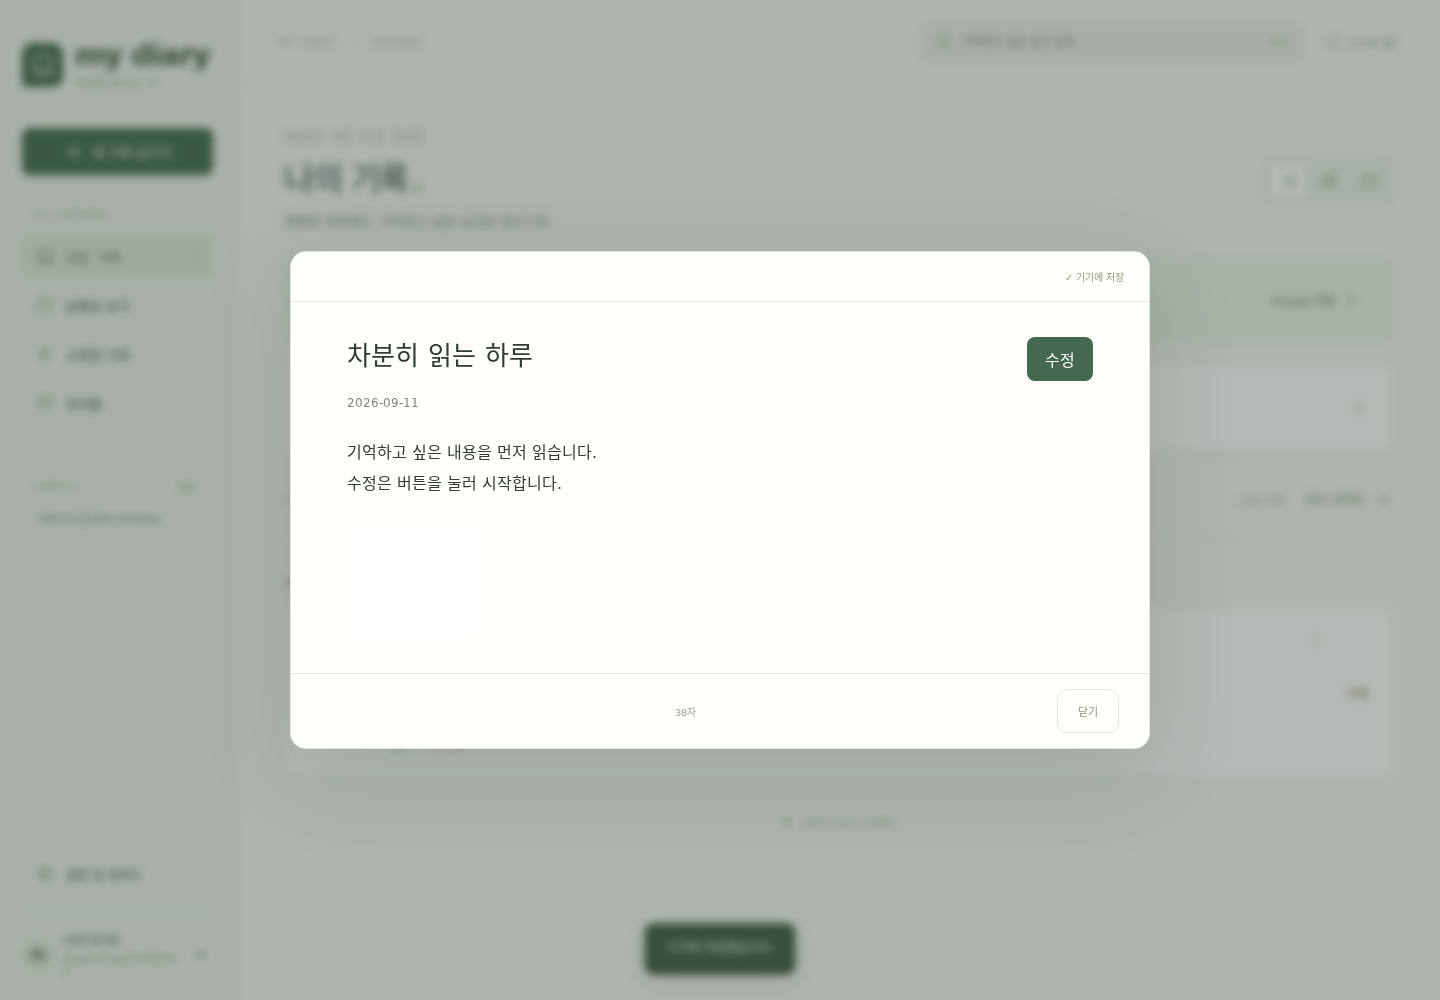
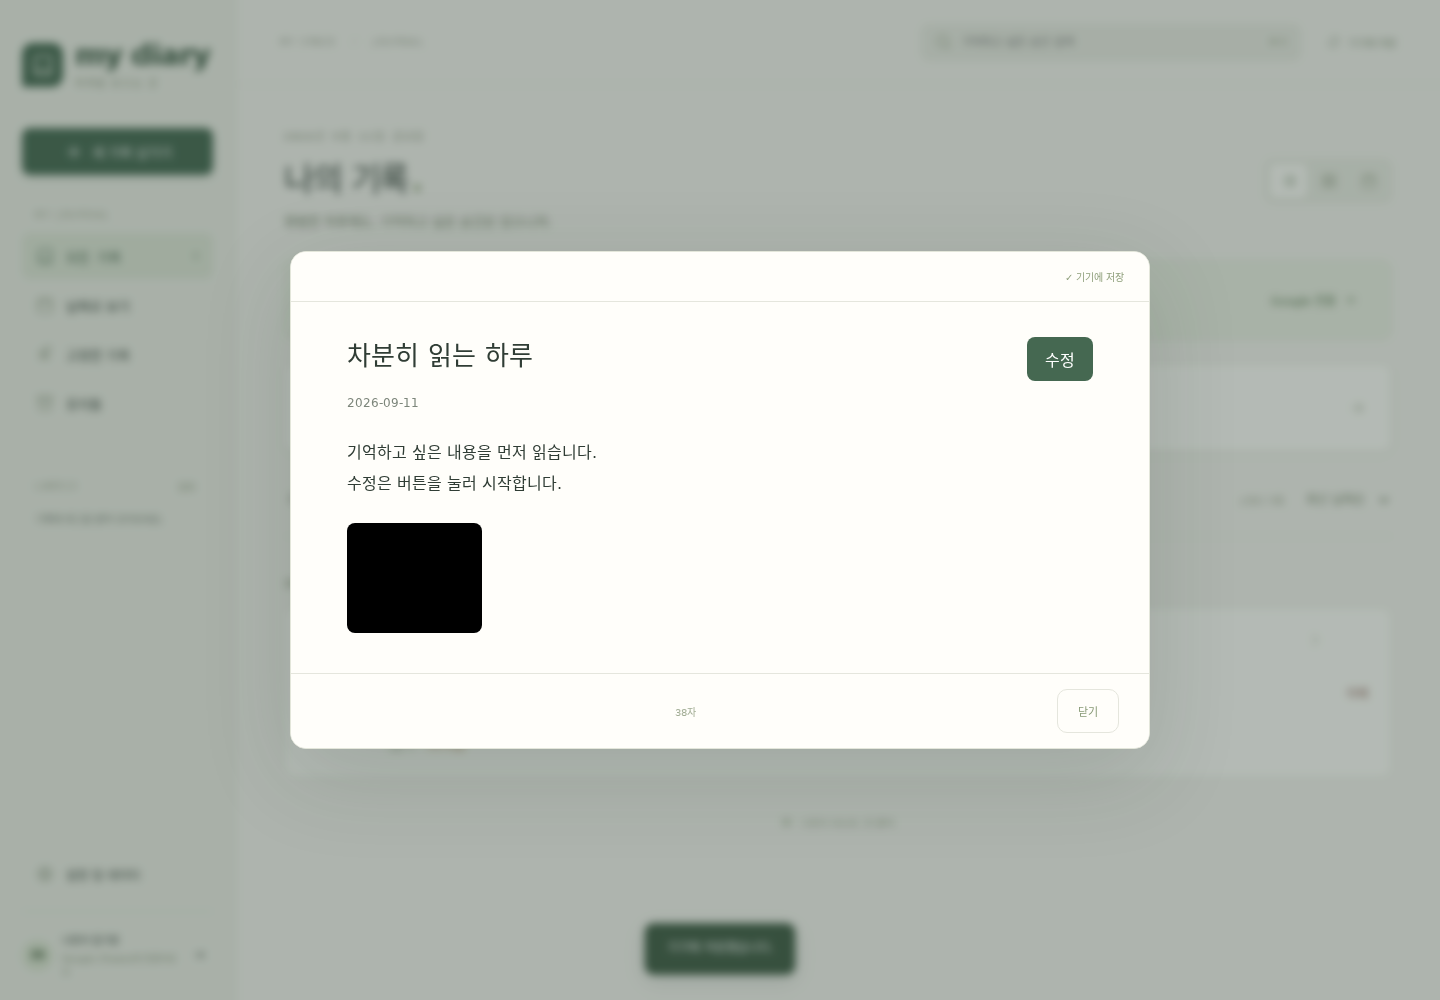
Use a valid photo fixture for reading mode tests

Changed region(s): [[0.2188, 0.496, 0.3438, 0.651]]

diff --git a/tests/browser/journal.spec.js b/tests/browser/journal.spec.js
@@ -238,13 +238,18 @@ test('existing diaries open for reading with an accessible edit action and no at
   await page
     .locator('#entry-body')
     .fill('기억하고 싶은 내용을 먼저 읽습니다.\n수정은 버튼을 눌러 시작합니다.');
+  const bytes = await page.evaluate(async () => {
+    const canvas = document.createElement('canvas');
+    canvas.width = 320;
+    canvas.height = 180;
+    canvas.getContext('2d').fillRect(0, 0, 320, 180);
+    const blob = await new Promise((resolve) => canvas.toBlob(resolve, 'image/png'));
+    return Array.from(new Uint8Array(await blob.arrayBuffer()));
+  });
   await page.locator('#photo-input').setInputFiles({
     name: 'private-name.png',
     mimeType: 'image/png',
-    buffer: Buffer.from(
[1 lines of base64/hex data omitted]
-      'base64',
-    ),
+    buffer: Buffer.from(bytes),
   });
   await expect(page.locator('.photo-preview img')).toBeVisible();
   await saveClose(page);
